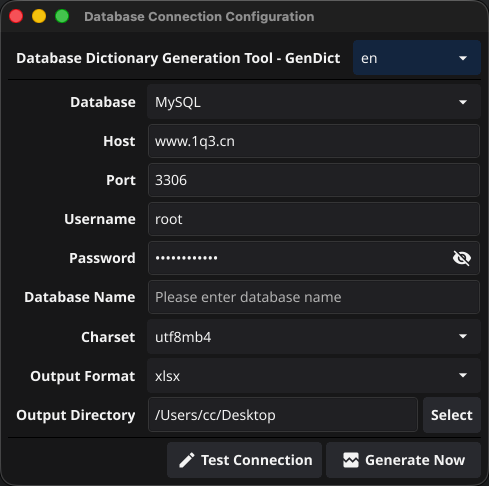
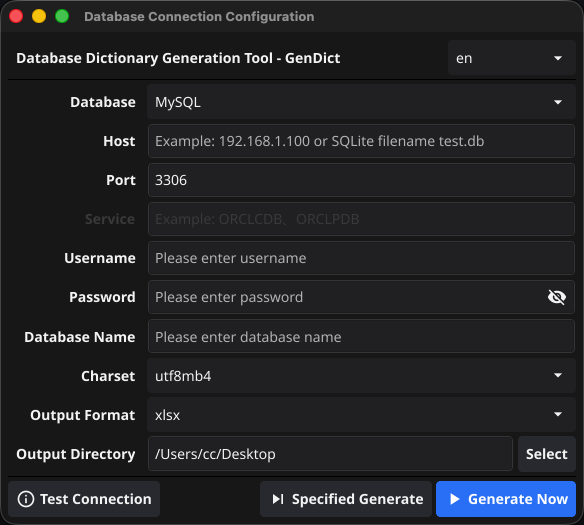
fix(db):修复数据库字典生成逻辑与界面显示问题
- 修复 SQLite 数据库无需传入数据库名的查询逻辑
- 更新数据库索引信息查询 SQL，移除对 SQLite 不必要的条件
- 修复生成失败时未正确返回错误的问题- 调整主窗口和搜索窗口尺寸以适应内容显示
- 修复 SQLite 模式下用户名字段不应为必填项的问题
- 更新界面提示文本与按钮标签，增强用户体验
- 添加新截图到 README 文档中展示界面变化
-优化生成逻辑，确保选中表名列表为空时默认使用全部表- 在生成过程中确保主窗口能正确获取焦点- 改进错误提示信息格式，增加换行以提升可读性- 更新多语言资源文件中的错误提示与界面标签翻译

diff --git a/main_view.go b/main_view.go
@@ -81,7 +81,7 @@ var (
 		"SQLite": map[string]bool{
 			"TxtHost":     true,
 			"TxtPort":     false,
-			"TxtUsername": true,
+			"TxtUsername": false,
 			"TxtPassword": false,
 			"TxtDbName":   false,
 			"SelCharset":  false,
@@ -228,7 +228,7 @@ func (this *MainView) init(appInstance *fyne.App) {
 	))
 
 	// 窗口尺寸
-	(*this.Window).Resize(fyne.NewSize(460, 400))
+	(*this.Window).Resize(fyne.NewSize(580, 400))
 	(*this.Window).SetContent(rootContainer)
 
 	// 默认值
@@ -646,8 +646,10 @@ func (this *MainView) btnCustomizeGenerate_onClicked() {
 		slog.Debug("selectedMap: %+v", selectedTableNameList)
 
 		go func() {
-			// 主窗口获得焦点
-			(*this.Window).RequestFocus()
+			fyne.Do(func() {
+				// 主窗口获得焦点
+				(*this.Window).RequestFocus()
+			})
 
 			// 生成数据
 			savePath, err := generateDict(dbConfig, outputDirPath, outputFormat, selectedTableNameList)

diff --git a/models/db_dict.go b/models/db_dict.go
@@ -82,12 +82,14 @@ func NewDatabaseInfo(dbName string, tblMap map[string]TableInfo, selectedTableNa
 		result.TableNameList = append(result.TableNameList, tblName)
 	}
 
-	// 选中的表名
-	result.selectedTableNameList = make([]string, 0)
-	// 如果没有指定，直接返回
+	// 如果没有指定，返回全部
 	if nil == result.selectedTableNameList {
+		result.selectedTableNameList = result.TableNameList
 		return result
 	}
+
+	// 选中的表名
+	result.selectedTableNameList = make([]string, 0)
 	// 确保选中的表名有效
 	for _, tblName := range selectedTableNameList {
 		if _, ok := tblMap[tblName]; ok {

diff --git a/services/db_dict_service_database.go b/services/db_dict_service_database.go
@@ -78,6 +78,10 @@ func (this *DbDictService) getTableIndexInfoMap(dbConfig *configs.DatabaseConfig
 	query := sql_getTableIndexInfoMap[dbType]
 	// 参数
 	params := []interface{}{dbConfig.Database}
+	// Sqlite 不需要传数据库名
+	if "sqlite" == dbType {
+		params = []interface{}{}
+	}
 	// 调用
 	err := this.DB.Raw(query, params...).Scan(&dataList).Error
 	if err != nil {

diff --git a/search_view.go b/search_view.go
@@ -123,7 +123,7 @@ func (this *SearchView) init(app *fyne.App, tableInfoMap map[string]string) {
 	// 窗口
 	window := (*this.app).NewWindow(I("search-view.ui.window.title"))
 	this.window = &window
-	(*this.window).Resize(fyne.NewSize(550, 480))
+	(*this.window).Resize(fyne.NewSize(580, 480))
 	// 初始化数据
 	this.initData(tableInfoMap)
 	// 设置内容

diff --git a/gen_dict.go b/gen_dict.go
@@ -39,6 +39,7 @@ func generateDict(dbConfig *configs.DatabaseConfig, saveDirPath string, format s
 	pathList, err := dbDictService.BuildAll(dbConfig, saveDirPath, format, true, selectedTableNameList)
 	if err != nil {
 		slog.Error("生成失败", "error", err)
+		return "", err
 	} else {
 		slog.Info("生成成功", "pathList", pathList)
 	}

diff --git a/services/db_dict_service.go b/services/db_dict_service.go
@@ -170,7 +170,7 @@ func (this *DbDictService) BuildAll(dbConfig *configs.DatabaseConfig, outputDirP
 	// 数据表map
 	tableInfoMap := databaseInfo.TableMap
 	// 遍历保存
-	for _, tableName := range selectedTableNameList {
+	for _, tableName := range databaseInfo.GetSelectedTableNameList() {
 		// 计数
 		current++
 		// 当前表信息

diff --git a/services/db_dict_service_database_sql_getTableIndexInfoMap.go b/services/db_dict_service_database_sql_getTableIndexInfoMap.go
@@ -200,7 +200,7 @@ var (
 			FROM sqlite_master t
 			WHERE
 				type = 'index'
-			AND database_name = ?
+-- 			AND database_name = ?
 			ORDER BY
 				database_name
 			  , schema_name

diff --git a/README_EN.md b/README_EN.md
@@ -14,6 +14,8 @@ A visual data dictionary generation tool developed using the Go language, suppor
 
 ![screen](screen.png)
 
+![screen1](screen1.png)
+
 ## ✨ Features
 
 - **Multi-Database Support**: Supports various mainstream relational databases such as MySQL, PostgresSQL, Oracle, SQLite, and more.

diff --git a/README.md b/README.md
@@ -14,6 +14,8 @@
 
 ![screen](screen.png)
 
+![screen1](screen1.png)
+
 ## ✨ 功能特性
 
 - **多数据库支持**: 支持 MySQL、PostgresSQL、Oracle、SQLite 等多种主流关系型数据库
